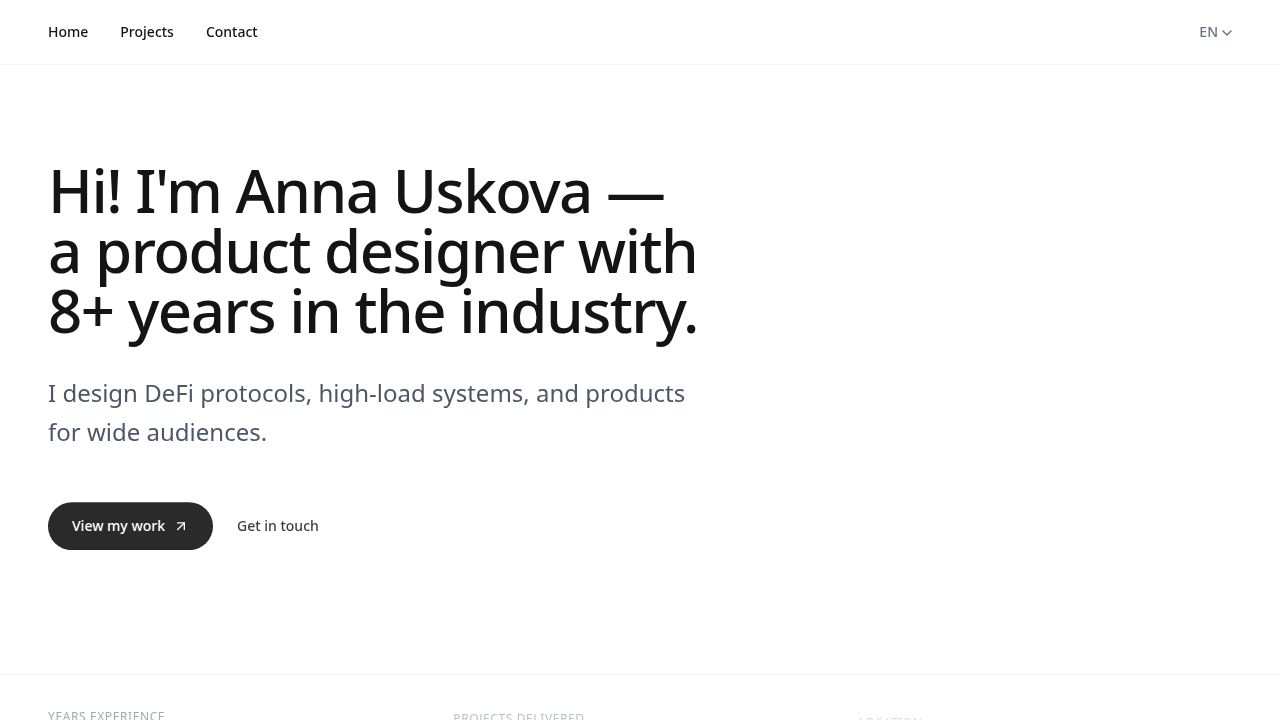
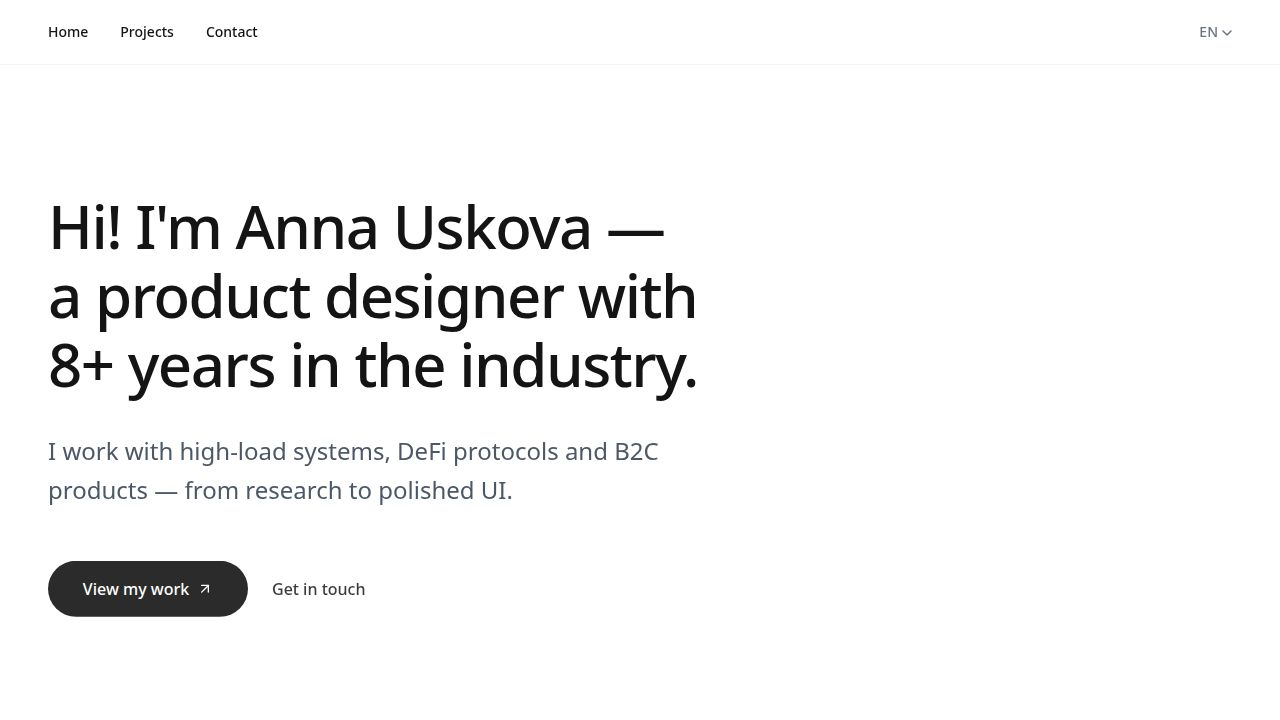
Create a dedicated "About Me" section with personal photo
Introduce a new "About Me" section incorporating the user's photo and statistics, repositioning it within the page structure.

Replit-Commit-Author: Agent
Replit-Commit-Session-Id: 3dbe97e4-d41a-47b0-8635-bc1d3c6fb0fb
Replit-Commit-Checkpoint-Type: full_checkpoint
Replit-Commit-Event-Id: 70b0a9b9-5b12-40c1-a588-1b75942c0aa1
Replit-Commit-Screenshot-Url: https://storage.googleapis.com/screenshot-production-us-central1/8e1a6e5c-8646-43d3-90e9-9db7fb99e1f2/3dbe97e4-d41a-47b0-8635-bc1d3c6fb0fb/iltsSVy
Replit-Helium-Checkpoint-Created: true

diff --git a/client/src/pages/home.tsx b/client/src/pages/home.tsx
@@ -163,7 +163,7 @@ export default function Home() {
       </AnimatePresence>
 
       <section className="pt-40 pb-24 lg:pt-48 lg:pb-32 relative">
-        <div className="max-w-7xl mx-auto px-6 lg:px-12 flex items-start justify-between">
+        <div className="max-w-7xl mx-auto px-6 lg:px-12">
           <div className="max-w-4xl">
             <motion.div 
               initial={{ opacity: 0, y: 20 }}
@@ -209,23 +209,56 @@ export default function Home() {
               </button>
             </motion.div>
           </div>
-
-          <motion.div
-            initial={{ opacity: 0, x: 20 }}
-            animate={{ opacity: 1, x: 0 }}
-            transition={{ duration: 0.8, delay: 0.4 }}
-            className="hidden lg:block w-[340px] aspect-[3/4] rounded-3xl overflow-hidden grayscale hover:grayscale-0 transition-all duration-700 shadow-2xl relative z-10"
-          >
-            <img 
-              src={annaPhoto} 
-              alt="Anna Uskova" 
-              className="w-full h-full object-cover"
-            />
-          </motion.div>
         </div>
       </section>
 
-      <section className="py-8 border-y border-gray-100">
+      <section className="py-24 bg-gray-50">
+        <div className="max-w-7xl mx-auto px-6 lg:px-12">
+          <div className="grid lg:grid-cols-2 gap-16 items-center">
+            <motion.div
+              initial={{ opacity: 0, x: -20 }}
+              whileInView={{ opacity: 1, x: 0 }}
+              viewport={{ once: true }}
+              className="aspect-[4/5] rounded-[32px] overflow-hidden grayscale hover:grayscale-0 transition-all duration-700 shadow-xl"
+            >
+              <img 
+                src={annaPhoto} 
+                alt="Anna Uskova" 
+                className="w-full h-full object-cover"
+              />
+            </motion.div>
+            
+            <motion.div
+              initial={{ opacity: 0, x: 20 }}
+              whileInView={{ opacity: 1, x: 0 }}
+              viewport={{ once: true }}
+              className="space-y-8"
+            >
+              <div className="space-y-4">
+                <h2 className="text-3xl md:text-4xl font-medium tracking-tight">
+                  {language === "ru" ? "Продуктовый подход и внимание к деталям" : "Product approach & attention to detail"}
+                </h2>
+                <p className="text-lg text-gray-600 leading-relaxed">
+                  {language === "ru" 
+                    ? "За 8 лет я прошла путь от создания небольших интерфейсов до проектирования сложных DeFi экосистем и B2C продуктов. Мой фокус — баланс между бизнес-целями и потребностями реальных людей."
+                    : "Over the past 8 years, I've evolved from designing simple interfaces to architecting complex DeFi ecosystems and B2C products. My focus is on the balance between business goals and the needs of real people."}
+                </p>
+              </div>
+
+              <div className="grid grid-cols-2 gap-8 pt-8 border-t border-gray-200">
+                {stats.map((stat, index) => (
+                  <div key={stat.label}>
+                    <p className="text-xs text-gray-400 uppercase tracking-wider mb-1">{stat.label}</p>
+                    <p className="text-2xl font-medium">{stat.value}</p>
+                  </div>
+                ))}
+              </div>
+            </motion.div>
+          </div>
+        </div>
+      </section>
+
+      <section className="py-8 border-y border-gray-100 hidden">
         <div className="max-w-7xl mx-auto px-6 lg:px-12">
           <div className="grid grid-cols-3 gap-8">
             {stats.map((stat, index) => (
